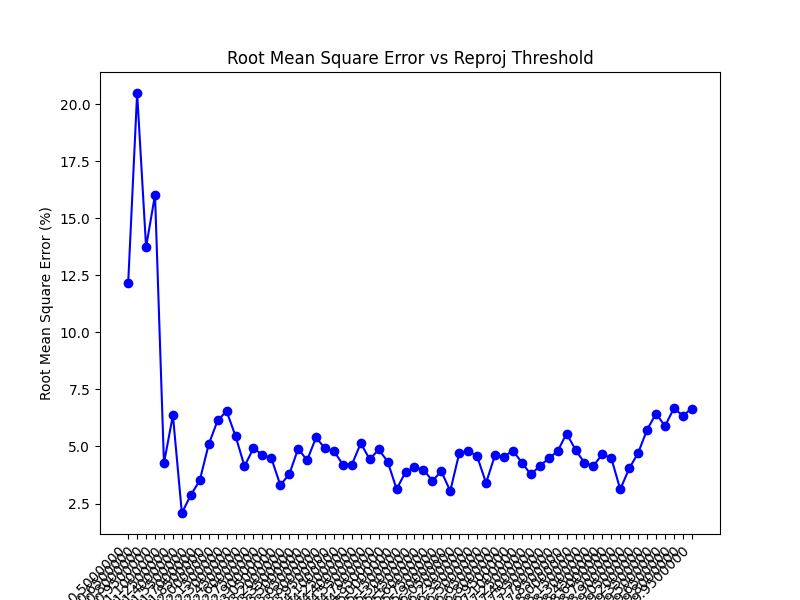
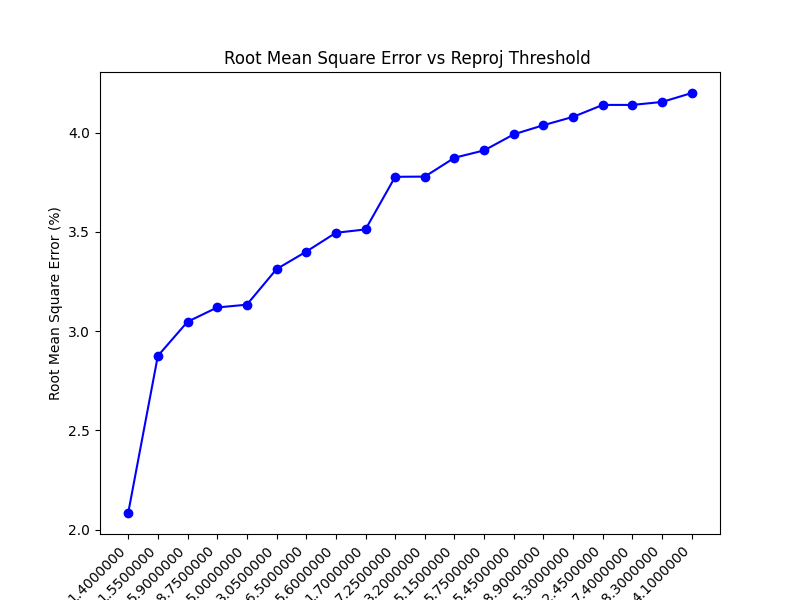
fixed graphs

diff --git a/opencv_optical_flow/pipeline/tuning_script_multithread.py b/opencv_optical_flow/pipeline/tuning_script_multithread.py
@@ -152,10 +152,11 @@ class TuningVisualizer:
         plt.close(fig)
 
     def plot_error_summary(self, error_values, output_path, error_name, error_unit):
-        hyper_parameters, error_values = zip(*sorted(error_values.items(), key=lambda x: float(x[1])))
+        sorted_error_values = dict(sorted(error_values.items(), key=lambda x: float(x[1]))[:20])
+        hyper_parameters, error_values = zip(*sorted_error_values.items())
 
         fig, ax = plt.subplots(figsize=(8, 6))
-        ax.set_title(f'{error_name} vs {self.hyperparameter_name}')
+        ax.set_title(f'{error_name} vs {self.hyperparameter_name} ')
         ax.set_xlabel(self.hyperparameter_name)
         ax.set_ylabel(f'{error_name} ({error_unit})')
 
@@ -167,21 +168,16 @@ class TuningVisualizer:
         plt.close(fig)
 
     def plot_error_summary_combined(self, error_values, ax, error_name, error_unit):
-        hyper_parameters, error_values = zip(*sorted(error_values.items(), key=lambda x: float(x[1])))
+        sorted_error_values = dict(sorted(error_values.items(), key=lambda x: float(x[1]))[:20])
+        hyper_parameters, error_values = zip(*sorted_error_values.items())
 
-        ax.set_title(f'{error_name} vs {self.hyperparameter_name}')
+        ax.set_title(f'{error_name} vs {self.hyperparameter_name} ')
         ax.set_xlabel(self.hyperparameter_name)
         ax.set_ylabel(f'{error_name} ({error_unit})')
 
         ax.plot(range(len(hyper_parameters)), error_values, marker='o', color='blue')
         ax.set_xticks(range(len(hyper_parameters)))
         ax.set_xticklabels(hyper_parameters, rotation=45, ha='right')
-
-
-        # if all(isinstance(x, int) for x in hyper_parameters):
-        #     ax.xaxis.set_major_locator(MaxNLocator(nbins='auto', integer=True))
-        # else:
-        #     ax.xaxis.set_major_locator(MaxNLocator(nbins='auto'))
 
     def plot_combined_error_summary(self, translational_errors, rotational_errors, rmse_errors, output_path):
         fig, axs = plt.subplots(3, 1, figsize=(8, 18))
@@ -499,11 +495,11 @@ if __name__ == "__main__":
     # hyperparameter_name = "K"
     # base_output_folder = "../results/4km/tuning_k"
 
-    hyperparameter_name = "Quality Level"
+    # hyperparameter_name = "Quality Level"
     # base_output_folder = "../results/feature_detector/tuning_new_quality_level_wide"
     # base_output_folder = "../results/tuning_quality_level_narrow"
     # base_output_folder = "../results/tuning_quality_level_narrow_2"
-    base_output_folder = "../results/4km/tuning_quality_level"
+    # base_output_folder = "../results/4km/tuning_quality_level"
 
 
 
@@ -522,8 +518,8 @@ if __name__ == "__main__":
     # base_output_folder = "../results/tuning_eig_threshold_wide"
 
     #Ransac param:
-    # hyperparameter_name = "Reproj Threshold"
-    # base_output_folder = "../results/4km/tuning_reproj_threshold"
+    hyperparameter_name = "Reproj Threshold"
+    base_output_folder = "../results/4km/tuning_reproj_threshold"
 
 
     # hyperparameter_name = "Max Iters"

diff --git a/opencv_optical_flow/pipeline/tuning_script_visualizer.py b/opencv_optical_flow/pipeline/tuning_script_visualizer.py
@@ -160,7 +160,7 @@ class TuningVisualizer:
         self.plot_combined_error_summary(translational_errors, rotational_errors, rmse_errors, combined_plot_filepath, num_points, percentage_points)
 
 if __name__ == "__main__":
-    current_directory = os.getcwd()
-    hyperparameter_names = ["k", "z_min"]  # Replace with your actual hyperparameter names
+    current_directory = r"C:\Users\SamuelChee\Desktop\FYP\opencv_optical_flow\results\4km\tuning_reproj_threshold"
+    hyperparameter_names = ["reproj_threshold"]  # Replace with your actual hyperparameter names
     visualizer = TuningVisualizer(current_directory, hyperparameter_names)
     visualizer.visualize(num_points=20)  # Specify the number of points or percentage of points to plot

diff --git a/opencv_optical_flow/results/4km/tuning_reproj_threshold/delete_png_script.py b/opencv_optical_flow/results/4km/tuning_reproj_threshold/delete_png_script.py
@@ -1,0 +1,21 @@
+import os
+import glob
+
+def delete_png_files(directory):
+    # Search for PNG files recursively
+    pattern = os.path.join(directory, '**/*.png')
+    png_files = glob.glob(pattern, recursive=True)
+
+    # Delete each PNG file
+    for file_path in png_files:
+        try:
+            os.remove(file_path)
+            print(f"Deleted file: {file_path}")
+        except OSError as e:
+            print(f"Error deleting file: {file_path} - {e}")
+
+# Specify the directory path where you want to delete PNG files
+directory_path = '.'
+if __name__ == "__main__":
+    # Call the function to delete PNG files within the directory
+    delete_png_files(directory_path)
